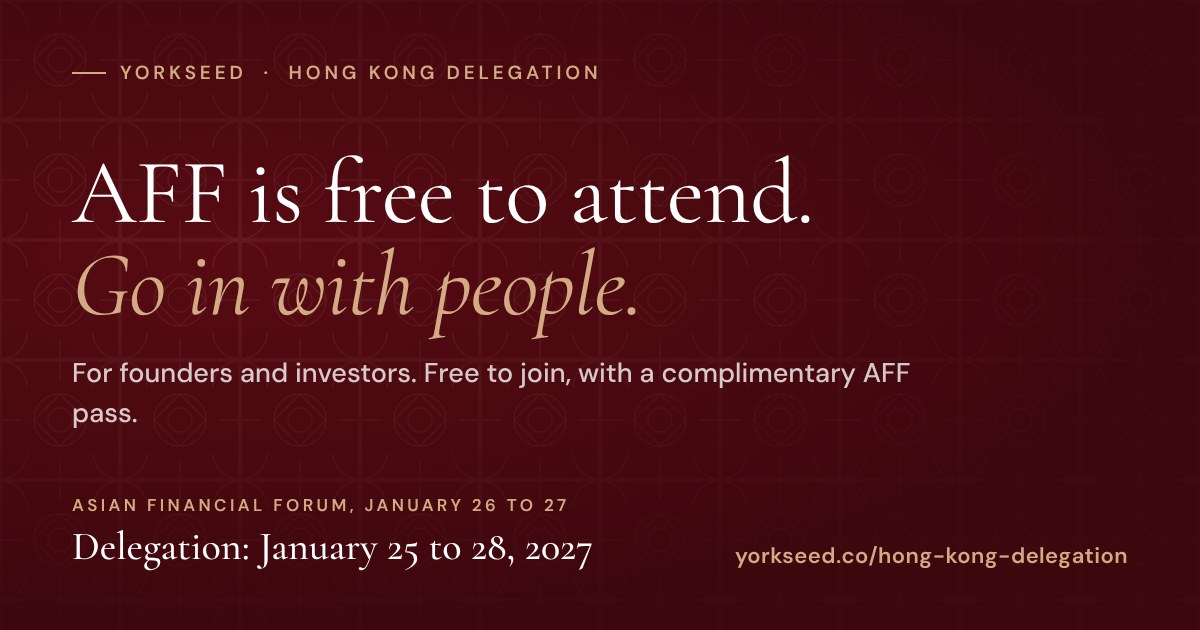
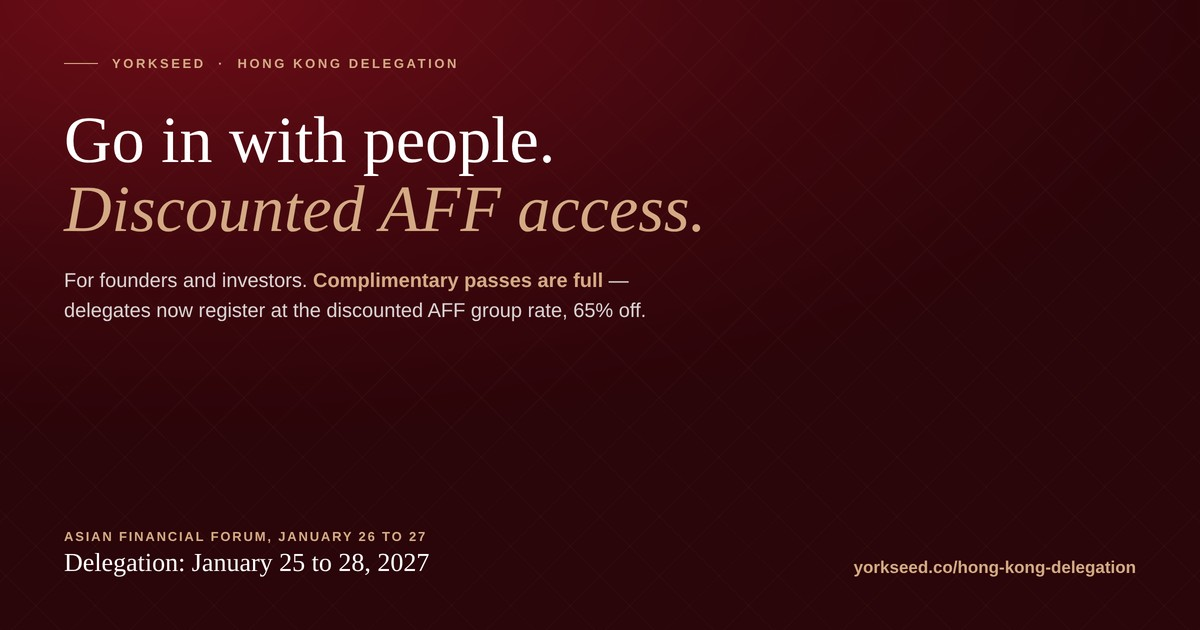
Fix Hong Kong delegation share thumbnail (AFF was never free)
The social preview image said "AFF is free to attend" / "free to
join, with a complimentary AFF pass" — wrong even before the 5 comp
passes sold out. Replaced with accurate copy: complimentary passes
are full, delegates now register at the discounted AFF group rate
(65% off). Matches the page's own oxblood/gold styling and fonts.

Claude-Session: https://claude.ai/code/session_016H75GHnTqDjgXgv1xLurjB

diff --git a/hong-kong-delegation.html b/hong-kong-delegation.html
@@ -17,7 +17,7 @@
 <meta property="og:image" content="https://yorkseed.co/assets/og-hong-kong-delegation.jpg"/>
 <meta property="og:image:width" content="1200"/>
 <meta property="og:image:height" content="630"/>
-<meta property="og:image:alt" content="Yorkseed Hong Kong Delegation at the Asian Financial Forum"/>
+<meta property="og:image:alt" content="Yorkseed Hong Kong Delegation: go in with people, discounted AFF access"/>
 <meta name="twitter:card" content="summary_large_image"/>
 <meta name="twitter:title" content="Join the Yorkseed Delegation to the Asian Financial Forum, Hong Kong 2027"/>
 <meta name="twitter:description" content="Founder and investor delegation to the Asian Financial Forum in Hong Kong. The first 5 delegates get a complimentary AFF pass, then a discounted paid ticket from about US$370 (HKD 2,820). The AFF Deal-Making platform, group chat, Deal Book profile."/>
